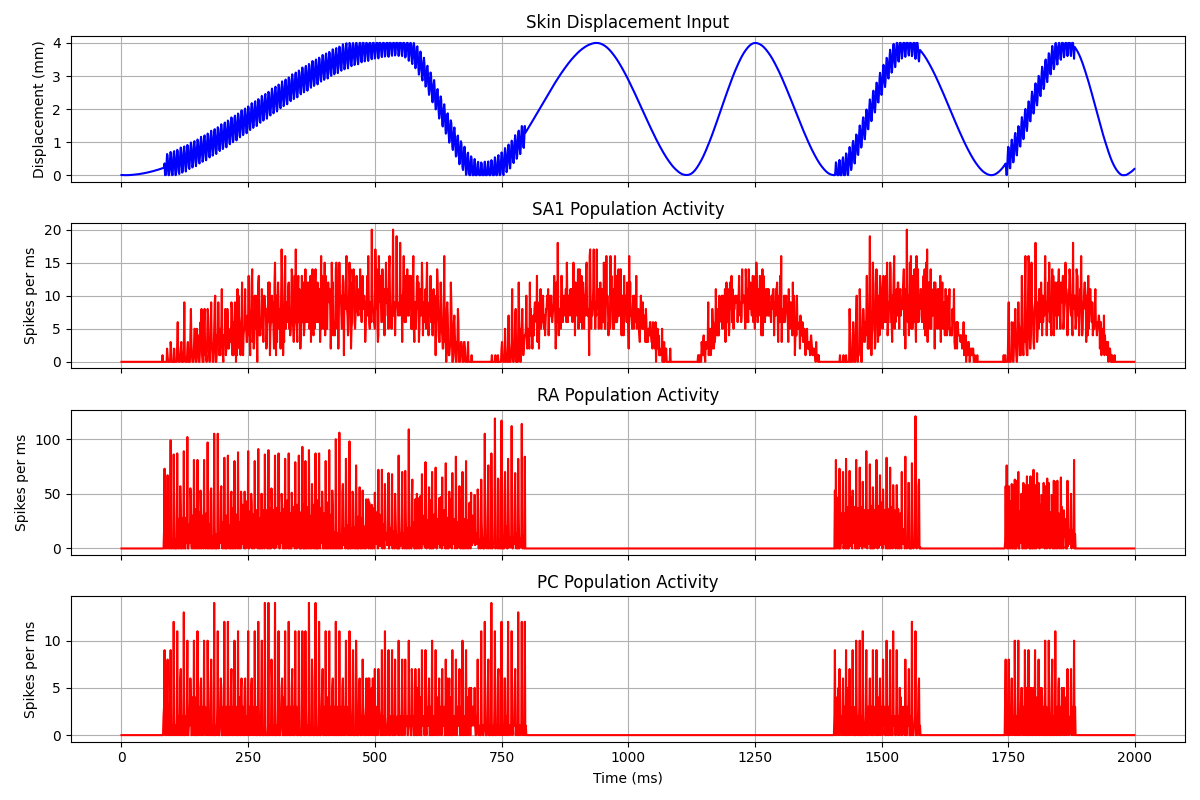
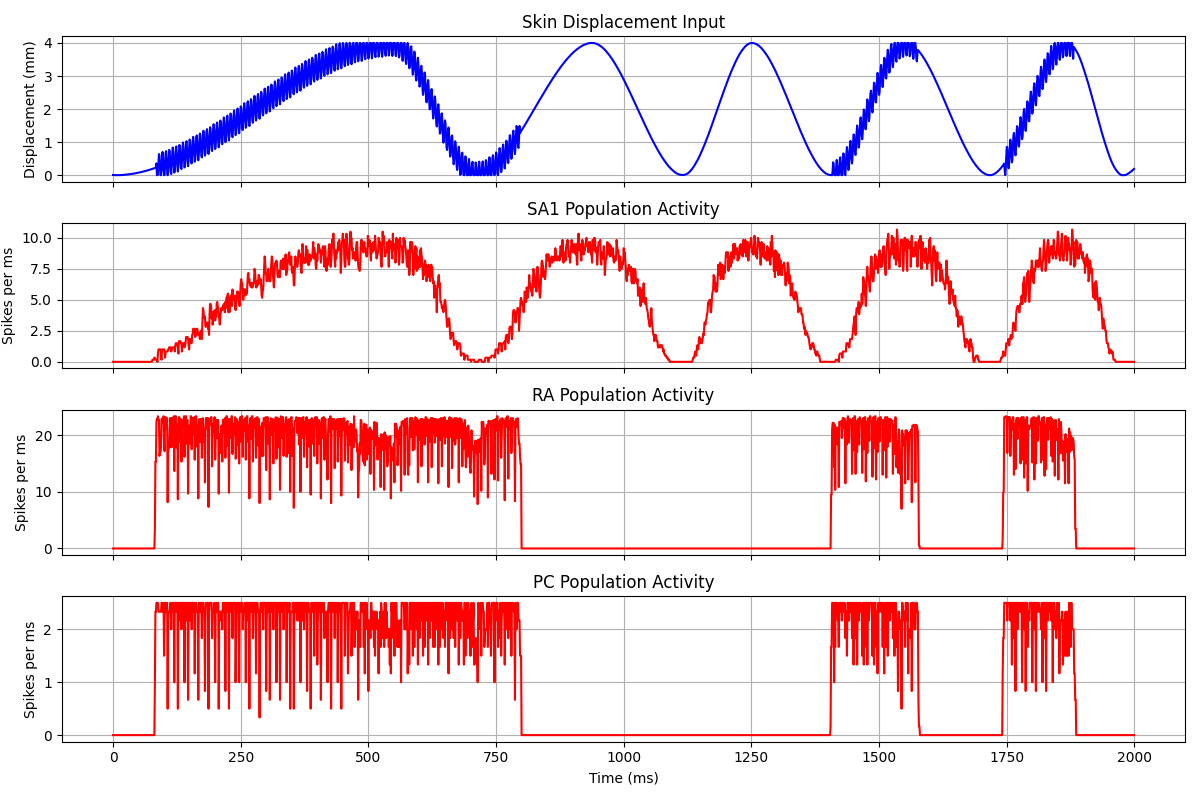
[Tactile] Adds rolling average for easier visualisation.

diff --git a/tactile_stream/Saal_et_al_2017_1D.py b/tactile_stream/Saal_et_al_2017_1D.py
@@ -445,6 +445,14 @@ if __name__ == '__main__':
     # Run the simulation
     afferent_responses = simulate_tactile_model(displacement_input_mm, model_config)
 
+    # Compute rolling average (window = 2ms) for each afferent's spike train (for easier visualisation)
+    rolling_window = 6  # in ms (since dt=1ms, window=2 samples)
+    afferent_responses_rolling = {}
+    for afferent_type, trains in afferent_responses.items():
+        afferent_responses_rolling[afferent_type] = [
+            np.convolve(train, np.ones(rolling_window)/rolling_window, mode='same') for train in trains
+        ]
+
     # --- Output Analysis Example with Plotting ---
     print("\n--- Simulation Results Summary ---")
     
@@ -465,7 +473,7 @@ if __name__ == '__main__':
     # Plot 2, 3, 4: Afferent Population Activity
     afferent_types = ['SA1', 'RA', 'PC']
     for i, afferent_type in enumerate(afferent_types):
-        spike_trains = afferent_responses[afferent_type]
+        spike_trains = afferent_responses_rolling[afferent_type]
         num_afferents = len(spike_trains)
 
         if num_afferents > 0:
